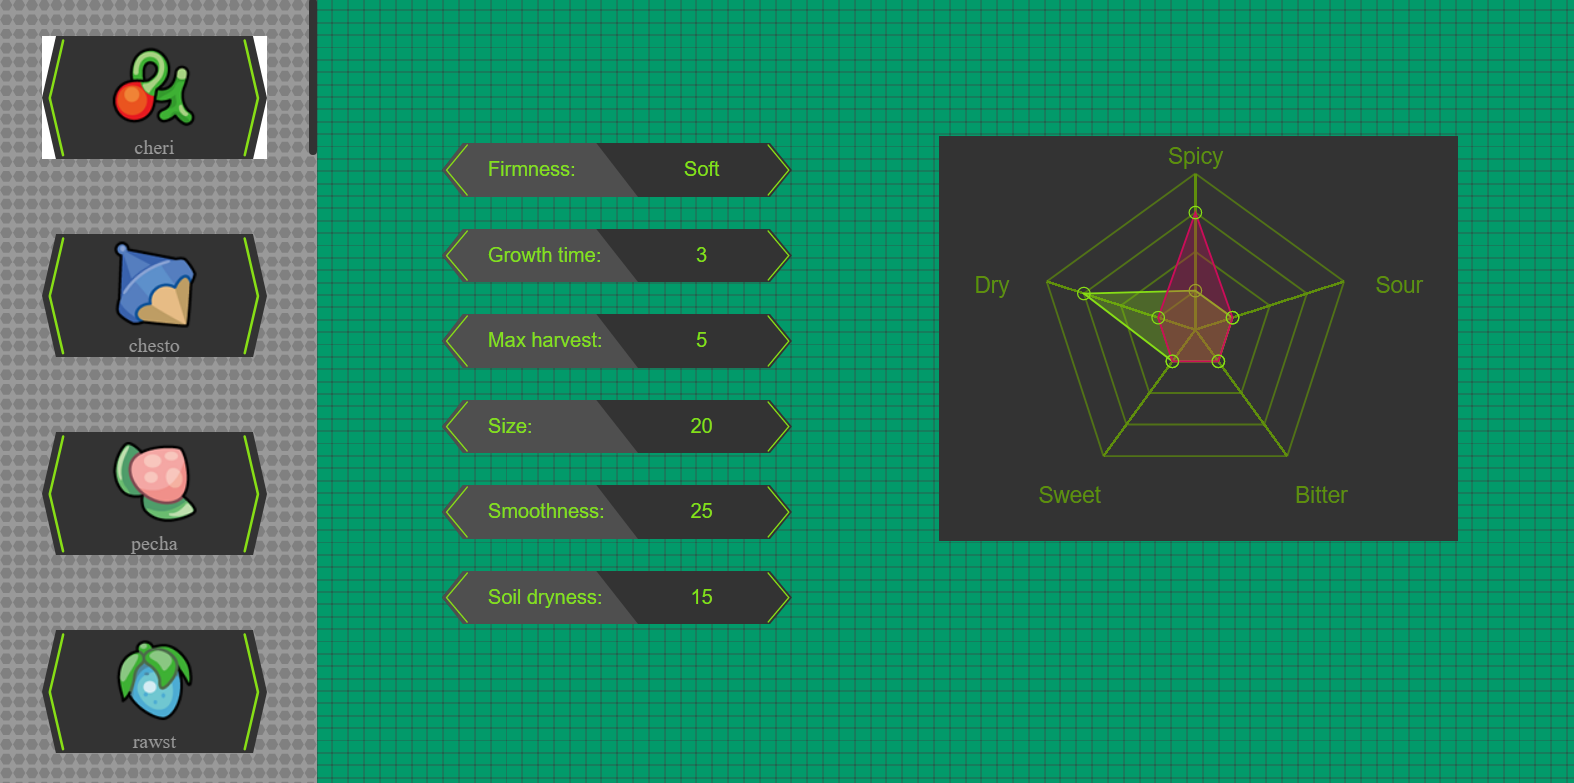
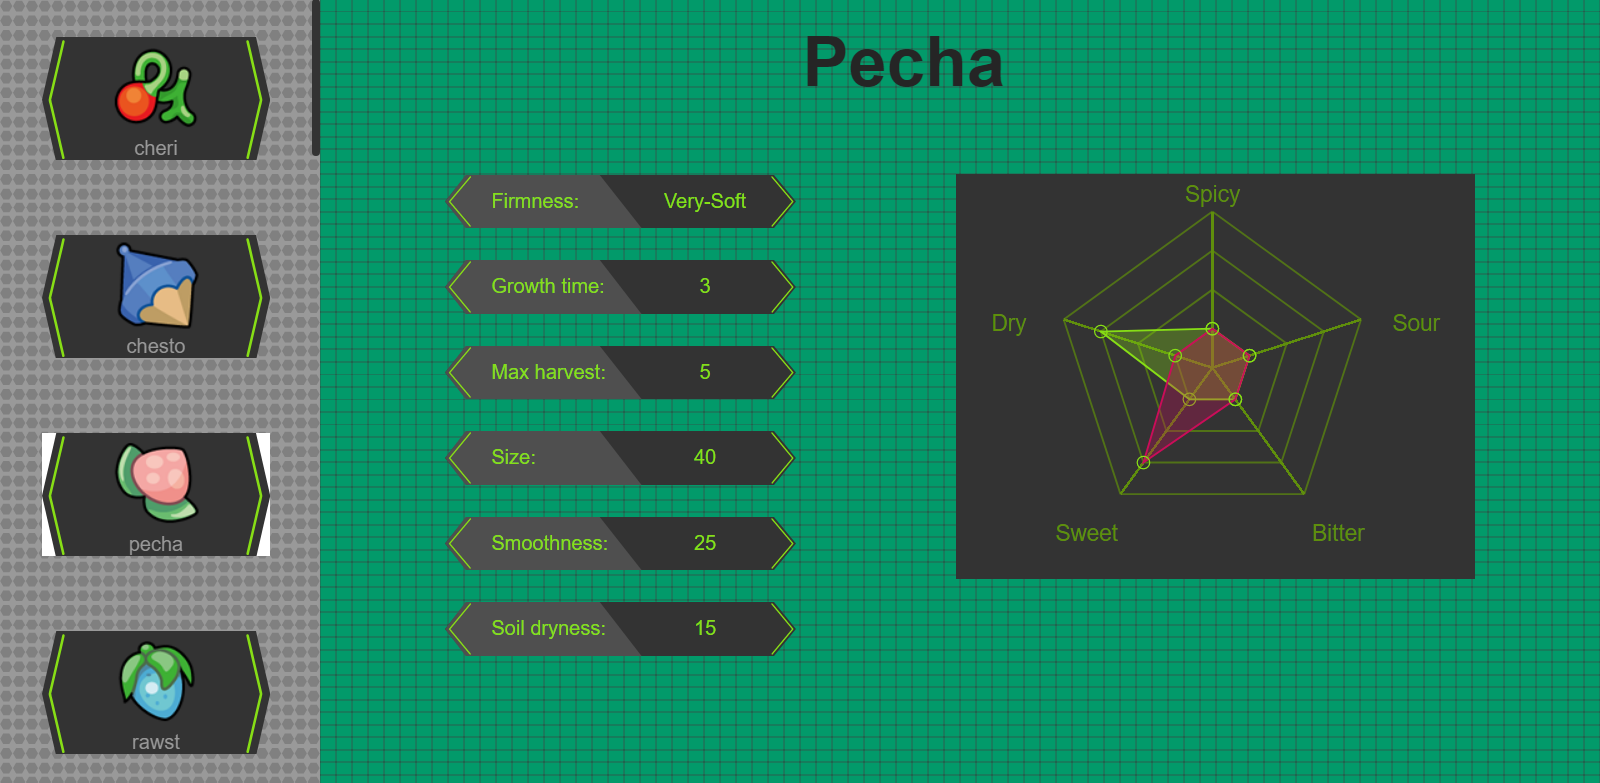
Titel toegevoegd

diff --git a/style.css b/style.css
@@ -4,6 +4,7 @@ body {
     margin: 0;
     background-image: url(./afbeeldingen/background.svg);
     background-size: 1%;
+    font-family: Arial, Helvetica, sans-serif;
 }
 
 body nav {
@@ -54,11 +55,24 @@ nav input:checked+label {
 
 main {
     position: relative;
-    height: 100vh;
+    height: 91vh;
     display: flex;
     width: 100%;
-    padding: 100px;
+    padding: 3vh 100px;
     margin-left: 20%;
+    flex-wrap: wrap;
+}
+
+main h1 {
+    flex-basis: 100%;
+    margin: 0;
+    font-size: 55px;
+    text-transform: capitalize;
+    text-align: center;
+    margin-right: 90px;
+    height: fit-content;
+    color: #252525;
+    min-height: 63px;
 }
 
 main article {
@@ -118,7 +132,7 @@ main article p span {
 #chart {
     position: absolute;
     z-index: 1;
-    top: 50px;
+    top: 140px;
     right: 100px;
     background-color: #333333;
 }

diff --git a/radar.js b/radar.js
@@ -413,6 +413,7 @@ var RadarChart = {
 
     function textData(berry) {
       berry = document.querySelector('input[type="radio"]:checked').id;
+      document.querySelector('h1').innerHTML = d[berry].name
       document.getElementById("firmness").innerHTML = d[berry].firmness.name
       document.getElementById("growth").innerHTML = d[berry].growth_time
       document.getElementById("harvest").innerHTML = d[berry].max_harvest

diff --git a/home.html b/home.html
@@ -14,6 +14,7 @@
 
   </nav>
   <main>
+    <h1></h1>
     <section>
       <article>
         <svg xmlns="http://www.w3.org/2000/svg" viewBox="0 0 307.83 47.2">
